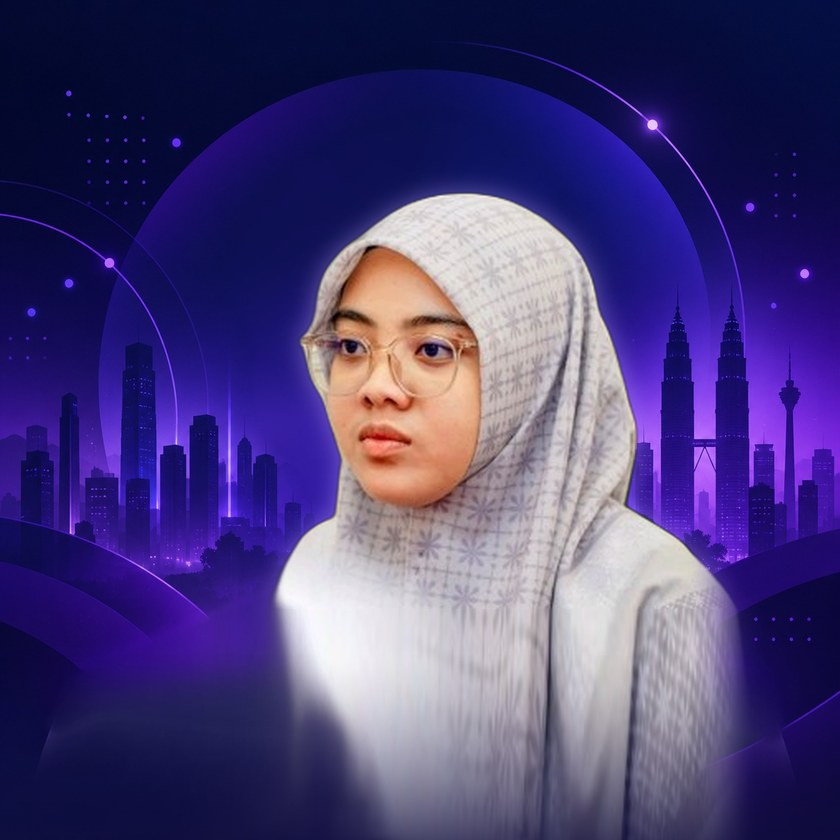
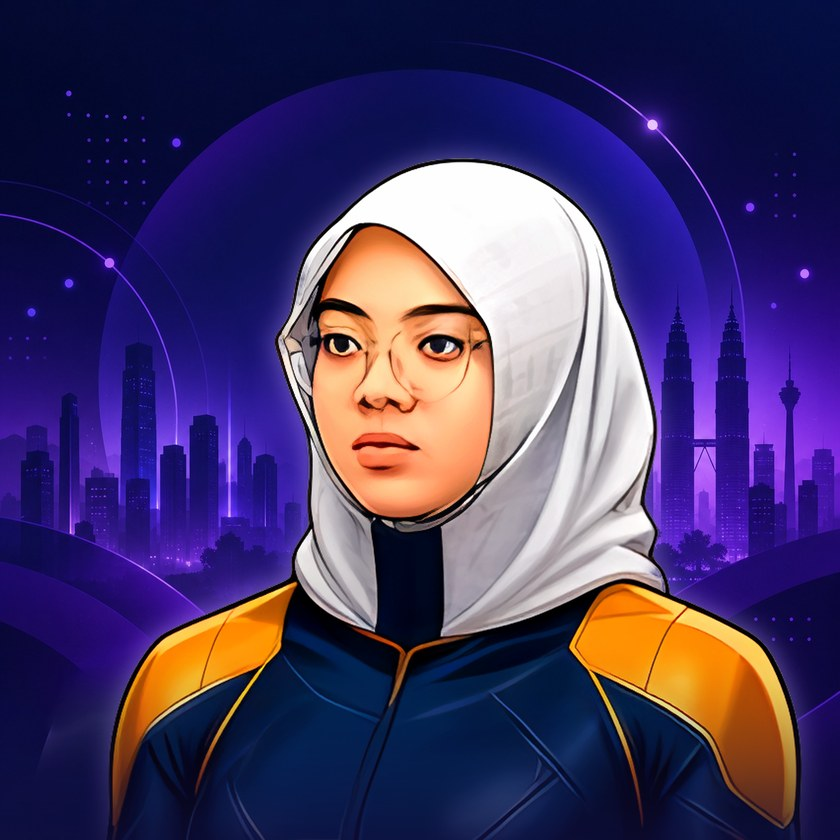
Show the volunteers as comic-book superheroes
Every volunteer tile is now the person redrawn from their photo as a
comic-book superhero in one matching suit (midnight navy with orange-gold
shoulders, no logos), on the Kuala Lumpur skyline, so the tiles look
consistent. Adds upscale.py and documents the prompt and settings.

diff --git a/tools/volunteer-tiles/upscale.py b/tools/volunteer-tiles/upscale.py
@@ -1,0 +1,54 @@
+"""Enlarge a small comic-style portrait four times, keeping the ink lines sharp.
+
+The superhero portraits come out of Canva at 200 by 200 pixels when downloaded
+through its connector. This enlarges one to 800 by 800 with the Real-ESRGAN
+anime model, which suits the comic style, before make_tile.py places it on the
+skyline.
+
+    python3 upscale.py PORTRAIT.jpg OUT.png [MODELS_DIR]
+
+MODELS_DIR is the "models" folder from the Real-ESRGAN ncnn release
+(realesrgan-ncnn-vulkan-20220424-ubuntu.zip, from the Real-ESRGAN GitHub
+releases, version 0.2.5.0). It defaults to a "models" folder next to this
+script. Runs on the processor, no graphics card needed, in a few seconds.
+
+Needs: pip install ncnn pillow numpy
+"""
+
+import sys
+from pathlib import Path
+
+import ncnn
+import numpy as np
+from PIL import Image
+
+MODEL = "realesrgan-x4plus-anime"
+
+
+def main():
+    if len(sys.argv) < 3:
+        sys.exit(__doc__)
+    src, dst = sys.argv[1], sys.argv[2]
+    models = Path(sys.argv[3]) if len(sys.argv) > 3 else Path(__file__).parent / "models"
+
+    net = ncnn.Net()
+    net.opt.use_vulkan_compute = False
+    net.opt.num_threads = 4
+    net.load_param(str(models / f"{MODEL}.param"))
+    net.load_model(str(models / f"{MODEL}.bin"))
+
+    img = Image.open(src).convert("RGB")
+    w, h = img.size
+    mat = ncnn.Mat.from_pixels(np.asarray(img).tobytes(), ncnn.Mat.PixelType.PIXEL_RGB, w, h)
+    mat.substract_mean_normalize([0.0, 0.0, 0.0], [1 / 255.0] * 3)
+
+    ex = net.create_extractor()
+    ex.input("data", mat)
+    _, out = ex.extract("output")
+    pixels = np.clip(np.array(out).transpose(1, 2, 0), 0, 1)
+    Image.fromarray((pixels * 255 + 0.5).astype(np.uint8)).save(dst)
+    print(f"{w}x{h} -> {pixels.shape[1]}x{pixels.shape[0]}")
+
+
+if __name__ == "__main__":
+    main()

diff --git a/tools/volunteer-tiles/README.md b/tools/volunteer-tiles/README.md
@@ -1,10 +1,35 @@
 # Volunteer tiles
 
-Makes the Community Day volunteer photos: the person cut out of an ordinary photo, in colour and slightly brightened, in front of the Kuala Lumpur skyline. The face is scaled and placed where the placeholder silhouette's face was, so all tiles match.
+Makes the Community Day volunteer tiles. Every volunteer is shown as a comic-book superhero: the person redrawn from their photo in one comic style and one matching suit, in front of the Kuala Lumpur skyline. Use the same steps and the same prompt for a new volunteer so all the tiles match. The suit is our own design: do not use Marvel or any other existing characters, names, emblems or logos.
 
 - `background.jpg` is the volunteer placeholder art (`src/assets/volunteer-placeholder.jpg`) with the silhouette taken out.
 - `body-mask.png` is the placeholder silhouette's shape, used by `--body` to draw shoulders behind a person.
-- `make_tile.py` makes one tile. Its first lines explain the options and what to install.
+- `make_tile.py` cuts the person out and places them on the skyline. Its first lines explain the options and what to install.
+- `upscale.py` enlarges a small comic portrait four times. Its first lines explain what to download.
+
+## Superhero tiles
+
+1. **Redraw the photo in Canva.** Generate an image (square) with the volunteer's photo as the reference image and the prompt below. Use her/she or his/he to match the person.
+
+   > Redraw the person in this image as an original comic-book superhero portrait. Keep her face, facial features, skin tone, hairstyle and expression the same so she is clearly recognisable. Head and shoulders, facing the viewer, centred, cropped at mid-chest with both shoulders fully in frame, no hands. She wears an original sleek superhero suit in midnight navy with bright orange-gold panels on the shoulders and a high collar, long sleeves, no logos, no letters, no emblems, no symbols, no cape, no mask. Bold clean ink outlines, cel shading, vibrant saturated colours, modern comic-book illustration style. Plain flat light grey background with nothing else in it.
+
+   Add what makes the person recognisable to the "Keep" sentence: glasses, grey hair, curly or long hair, a smile. For a headscarf, add: "and keep her headscarf (hijab) exactly as in the photo, fully covering her hair and neck, with the suit's high collar under it", with its colour. Name things in the photo to leave out after "no hands" (a backpack, a laptop, a hand gesture). Compare the result with the photo and generate again if the face is not a good likeness.
+
+2. **Enlarge it if it is small.** A portrait downloaded from Canva at full size can be used as it is. The 200 by 200 pixel version the Canva connector returns is enlarged to 800 by 800 first:
+
+   ```
+   python3 tools/volunteer-tiles/upscale.py portrait.jpg portrait-800.png path/to/models
+   ```
+
+3. **Place it on the skyline.** Most tiles use `--zoom 1.35 --lower 0.04`. Compare the new tile with the others at tile size and change `--zoom` until the face matches theirs: a headscarf or big hair makes the face finder's box too large, so the person needs more zoom.
+
+   ```
+   python3 tools/volunteer-tiles/make_tile.py portrait-800.png src/assets/volunteers/jane-tan.jpg --zoom 1.35 --lower 0.04
+   ```
+
+   Settings used on 15 October 2026: `--zoom 1.35 --lower 0.04` for Yap Hock Seng, Chong Hun Yee, Jerry Chong, Lavanesswary and Edelyn Seah; 1.25 for Chan Kar Fong; 1.45 for Tuan Nur Sumayyah Binti Roseli; 1.5 for Muhammad Fikhri; 1.6 for Fatin Najdah; 1.25 with `--face 395,290,320` for Ruben Chong, whose tilted head is not found by the face finder.
+
+## make_tile.py options
 
 ```
 python3 tools/volunteer-tiles/make_tile.py photo.jpg src/assets/volunteers/jane-tan.jpg
@@ -15,6 +40,6 @@ python3 tools/volunteer-tiles/make_tile.py passport-photo.jpg src/assets/volunte
 python3 tools/volunteer-tiles/make_tile.py trimmed-cutout.png src/assets/volunteers/jane-tan.jpg --cutout --face 215,320,300 --edge 0.18
 ```
 
-Use `--crop` when the photo is wide or has other people in it, and `--face` when the face is not found by itself. A photo cut off at the chest has its clothes stretched down to the bottom of the tile so the person does not float; add `--zoom 1.5 --lower 0.05` for such a photo so less has to be stretched. A side cut by the photo edge is faded out. For a round avatar, `--circle` ignores everything outside the circle, and `--body` draws shoulders and a body behind the person in the colour of their clothes instead of stretching; this works best with dark, plain clothes. The face finder sometimes takes in hair or a headscarf and makes a person too small: compare each new tile with the others and use `--zoom` to match. If the cut-out keeps only the face (clothing or a headscarf close in colour to the background), add `--model u2net_human_seg`. `--body` suits dark plain clothes; with light clothes it looks like a flat block, so stretch instead. For a passport-style photo that stops at the upper chest with an open collar, stretching drags the neck down: use `--band 0` (no stretching, the lower edge fades softly) with `--zoom` and `--lower` so the photo ends near the bottom. When the cut-out keeps background clutter, trim it by hand to a PNG with a transparent background and pass it with `--cutout` (and `--face` if the face is not found, for example with a tilted head). `--edge` sets how wide a side cut by the photo's edge fades; use less than the default 0.25 when the edge runs close to the face. Do not draw clothes or bodies for light clothing or to change what someone wears: it looks fake. Use the person's own photo. A photo showing the shoulders and some of the body looks best. Check each tile by eye before publishing.
+The script also works on an ordinary photo, which is how the tiles were made before the superhero look. Use `--crop` when the photo is wide or has other people in it, and `--face` when the face is not found by itself. A photo cut off at the chest has its clothes stretched down to the bottom of the tile so the person does not float; add `--zoom 1.5 --lower 0.05` for such a photo so less has to be stretched. A side cut by the photo edge is faded out. For a round avatar, `--circle` ignores everything outside the circle, and `--body` draws shoulders and a body behind the person in the colour of their clothes instead of stretching; this works best with dark, plain clothes. The face finder sometimes takes in hair or a headscarf and makes a person too small: compare each new tile with the others and use `--zoom` to match. If the cut-out keeps only the face (clothing or a headscarf close in colour to the background), add `--model u2net_human_seg`. `--body` suits dark plain clothes; with light clothes it looks like a flat block, so stretch instead. For a passport-style photo that stops at the upper chest with an open collar, stretching drags the neck down: use `--band 0` (no stretching, the lower edge fades softly) with `--zoom` and `--lower` so the photo ends near the bottom. When the cut-out keeps background clutter, trim it by hand to a PNG with a transparent background and pass it with `--cutout` (and `--face` if the face is not found, for example with a tilted head). `--edge` sets how wide a side cut by the photo's edge fades; use less than the default 0.25 when the edge runs close to the face. Do not draw clothes onto an ordinary photo or change what someone wears by hand: it looks fake. Check each tile by eye before publishing.
 
 These files are not part of the website build.

diff --git a/README.md b/README.md
@@ -86,7 +86,7 @@ Everything on the page comes from the top of `src/pages/events/community-day-202
 - **Speakers.** Add an entry under `speakers` with `name`, `role` (job title), `affiliation` (company or university), `talk`, `linkedin` and `photo`. Speakers are shown in the order they are listed. Photos go in `src/assets/speakers/`. A speaker without a photo, or whose photo file is not there yet, is shown with their initials.
 - **Speaker placeholders.** `speakerSlots` is how many profiles the page shows. Slots without a speaker yet are shown as "Speaker to be announced", and each speaker you add takes one over. Set it to `0` to show only confirmed speakers.
 - **Schedule.** `agenda` has one entry per slot with `time`, `title` and, for a talk, `speaker`. It starts as a placeholder outline: an entry with `placeholder: true` is marked "To be announced". Replace the outline with the real slots when the agenda is set, and remove `agendaNote`, the line that tells visitors it is an outline.
-- **Volunteer team.** The last section on the page. Add an entry under `volunteers` with `name`, `photo` and, if you like, `linkedin`. `photo` names a finished tile in `src/assets/volunteers/`: the volunteer cut out, in colour, on the skyline background, made with `tools/volunteer-tiles/make_tile.py`. A volunteer without a tile yet shows the skyline silhouette from `src/assets/volunteer-placeholder.jpg` above their name. `volunteerSlots` adds "Volunteer to be announced" tiles until that many tiles are shown; it is `0` now, so only the named volunteers appear.
+- **Volunteer team.** The last section on the page. Add an entry under `volunteers` with `name`, `photo` and, if you like, `linkedin`. `photo` names a finished tile in `src/assets/volunteers/`: the volunteer as a comic-book superhero in the team's matching suit, on the skyline background, made with the steps in `tools/volunteer-tiles/README.md`. A volunteer without a tile yet shows the skyline silhouette from `src/assets/volunteer-placeholder.jpg` above their name. `volunteerSlots` adds "Volunteer to be announced" tiles until that many tiles are shown; it is `0` now, so only the named volunteers appear.
 - **Registration.** Add `registrationUrl` and a Register button appears at the top of the page and in the Registration section.
 - **Sponsors and partners.** Add an entry under `sponsors` with `name`, `tier`, `url` and `logo`. Entries with the same `tier` are grouped under one heading. Logos go in `src/assets/sponsors/`.
 - **Countdown.** It runs to `startTime` on `date`, in Malaysia time. Between `startTime` and `endTime` it reads "Happening now", and after `endTime` it disappears and the label above the title changes to "Past event". The numbers are added by `public/scripts/site.js` and are not written in the page itself, so search engines and tools that do not run scripts never see a row of zeros.

diff --git a/src/assets/volunteers/README.md b/src/assets/volunteers/README.md
@@ -2,6 +2,6 @@
 
 One finished tile per volunteer, named to match the `photo` value in the event's `.md` file. For example, `photo: "jane-tan"` uses `jane-tan.jpg`.
 
-Each tile is a square JPG of 840 by 840 pixels: the volunteer cut out of their photo, in colour, standing in front of the Kuala Lumpur skyline where the placeholder silhouette was. Make them with `tools/volunteer-tiles/make_tile.py` so every tile has the same background, size and position. The site shows the file as it is.
+Each tile is a square JPG of 840 by 840 pixels: the volunteer as a comic-book superhero, redrawn from their photo in the team's matching suit, in front of the Kuala Lumpur skyline where the placeholder silhouette was. Make them with the steps and prompt in `tools/volunteer-tiles/README.md` so every tile has the same style, suit, background, size and position. The site shows the file as it is.
 
 A volunteer whose file is not here yet is shown with the skyline silhouette (`src/assets/volunteer-placeholder.jpg`) above their name, so a name can go up before the photo arrives.

diff --git a/src/pages/events/community-day-2026.md b/src/pages/events/community-day-2026.md
@@ -135,7 +135,7 @@ volunteerSlots: 0
 
 # One entry per volunteer, shown in this order. linkedin is optional.
 # photo is a file name in src/assets/volunteers without the extension: a finished tile
-# made with tools/volunteer-tiles (the person in colour on the skyline).
+# made with tools/volunteer-tiles (the person as a comic-book superhero on the skyline).
 # Without a photo, the tile shows the skyline silhouette above the name.
 # Example:
 #   - name: "Full name"
